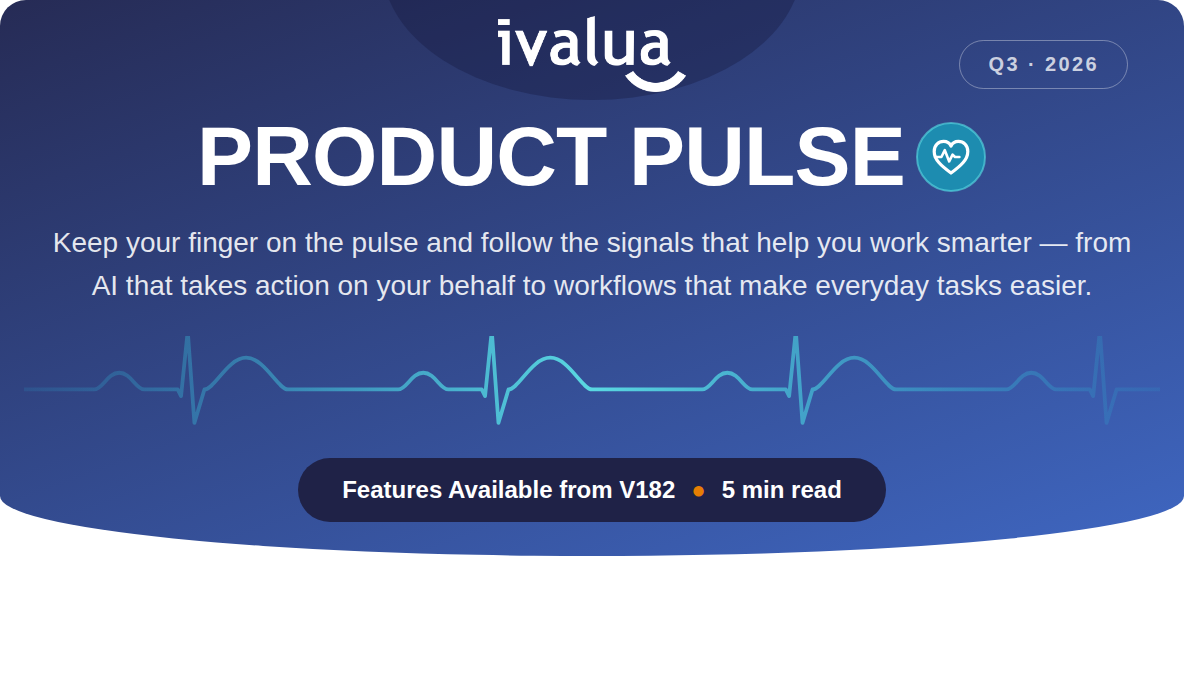
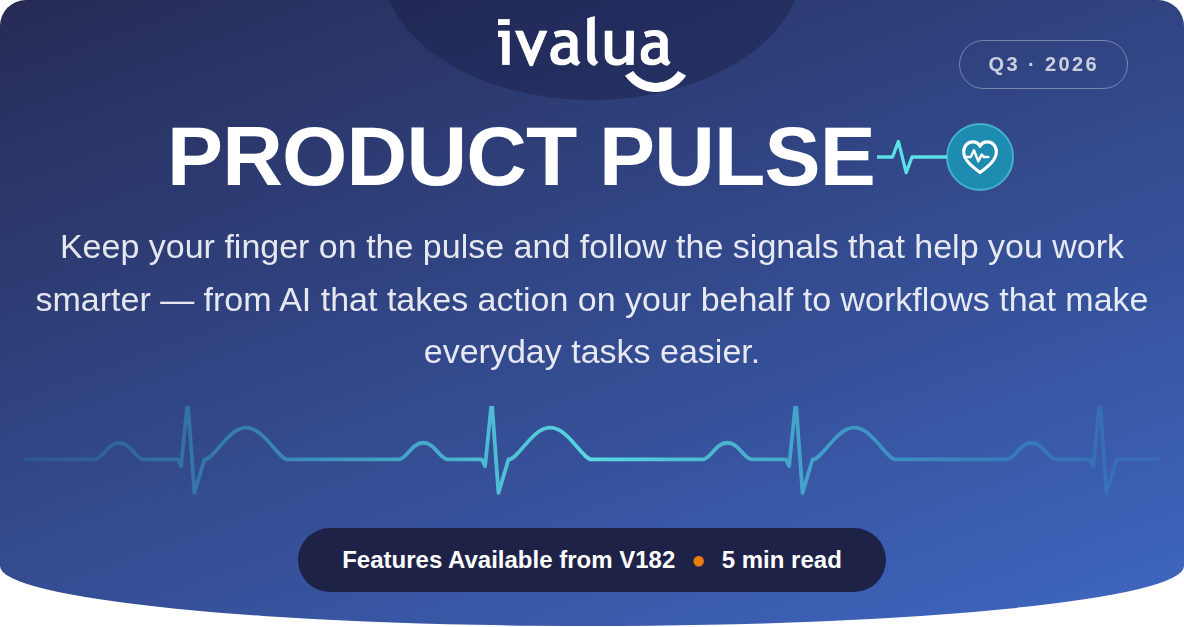
Hero: larger tagline, pulse line linking PULSE to heart, transparent background
Claude-Session: https://claude.ai/code/session_01JX6sXjeg33BNGLjW5NAsjY

diff --git a/hero.html b/hero.html
@@ -5,7 +5,7 @@
 <meta name="viewport" content="width=device-width, initial-scale=1">
 <title>Product Pulse Hero</title>
 <style>
-  body{ margin:0; background:#FFFFFF; font-family:Arial, Helvetica, sans-serif; }
+  body{ margin:0; background:transparent; font-family:Arial, Helvetica, sans-serif; }
   .hero{
     position:relative; overflow:hidden; max-width:1184px; margin:0 auto;
     background:linear-gradient(160deg, #262B55 0%, #3F67C2 100%);
@@ -18,8 +18,8 @@
   .kicker{ position:absolute; top:40px; right:56px; padding:12px 28px; border:1.5px solid rgba(255,255,255,0.35);
     border-radius:999px; font-size:20px; font-weight:700; letter-spacing:0.12em; color:rgba(255,255,255,0.75); }
   h1{ position:relative; margin:22px 0 22px; font-size:84px; font-weight:900; line-height:1; letter-spacing:-0.01em; }
-  h1 .heart{ display:inline-block; vertical-align:middle; margin-left:10px; position:relative; top:-6px; }
-  .sub{ position:relative; max-width:1080px; margin:0 auto; font-size:28px; line-height:1.55; color:rgba(255,255,255,0.88); }
+  h1 .heart{ display:inline-block; vertical-align:middle; margin-left:2px; position:relative; top:-6px; }
+  .sub{ position:relative; max-width:1120px; margin:0 auto; font-size:34px; line-height:1.55; color:rgba(255,255,255,0.88); }
   .ekg{ display:block; width:100%; margin:28px 0 22px; }
   .pill{ position:relative; display:inline-block; padding:18px 44px; border-radius:999px; background:#1F2247;
     font-size:24px; font-weight:700; color:#FFFFFF; }
@@ -27,7 +27,7 @@
   @media (max-width:700px){
     .logo{ height:44px; } .kicker{ top:18px; right:18px; font-size:12px; padding:6px 12px; }
     h1{ font-size:40px; } .sub{ font-size:16px; } .pill{ font-size:15px; padding:12px 22px; }
-    h1 .heart{ width:44px; height:44px; }
+    h1 .heart{ width:68px; height:34px; } .sub{ font-size:18px; }
   }
 </style>
 </head>
@@ -37,10 +37,11 @@
     <img class="logo" src="ivalua-logo.png" alt="Ivalua">
     <span class="kicker">Q3 · 2026</span>
 
-    <h1>PRODUCT PULSE<svg class="heart" width="72" height="72" viewBox="0 0 36 36" aria-hidden="true">
-      <circle cx="18" cy="18" r="17" fill="#1D8CB0" stroke="#5CE0E6" stroke-width="1" stroke-opacity="0.6"/>
-      <path d="M18 26c-5-3.7-8.4-6.7-8.4-10.8 0-2.9 2.1-5 4.7-5 1.7 0 3.1 1 3.7 2.3.6-1.3 2-2.3 3.7-2.3 2.6 0 4.7 2.1 4.7 5 0 4.1-3.4 7.1-8.4 10.8z" fill="none" stroke="#FFFFFF" stroke-width="1.6" stroke-linejoin="round"/>
-      <path d="M10 18h3.2l1.7-3.4 2.2 5.6 1.7-3.4 1.2 1.2h2.2" fill="none" stroke="#FFFFFF" stroke-width="1.3" stroke-linecap="round" stroke-linejoin="round"/>
+    <h1>PRODUCT PULSE<svg class="heart" width="140" height="70" viewBox="0 0 72 36" aria-hidden="true">
+      <path d="M0 18H8L11 10L15 26L18 18H36" fill="none" stroke="#5CE0E6" stroke-width="1.7" stroke-linecap="round" stroke-linejoin="round"/>
+      <circle cx="53" cy="18" r="17" fill="#1D8CB0" stroke="#5CE0E6" stroke-width="1" stroke-opacity="0.6"/>
+      <path d="M53 26c-5-3.7-8.4-6.7-8.4-10.8 0-2.9 2.1-5 4.7-5 1.7 0 3.1 1 3.7 2.3.6-1.3 2-2.3 3.7-2.3 2.6 0 4.7 2.1 4.7 5 0 4.1-3.4 7.1-8.4 10.8z" fill="none" stroke="#FFFFFF" stroke-width="1.6" stroke-linejoin="round"/>
+      <path d="M45 18h3.2l1.7-3.4 2.2 5.6 1.7-3.4 1.2 1.2h2.2" fill="none" stroke="#FFFFFF" stroke-width="1.3" stroke-linecap="round" stroke-linejoin="round"/>
     </svg></h1>
 
     <p class="sub">Keep your finger on the pulse and follow the signals that help you work smarter — from AI that takes action on your behalf to workflows that make everyday tasks easier.</p>
